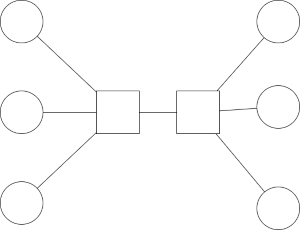
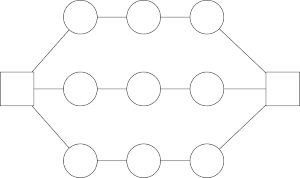
Adding security info content

diff --git a/securitypage.html b/securitypage.html
@@ -20,28 +20,73 @@
                 <img id="logo" src="ProtoNet_logo.png" alt="ProtoNet Logo">
                 <h1 id="title">Security Information</h1>
             </div>
-            <p>This is a placeholder until we determine the specific security aspects of our algorithm are determined. </p>
-            <p>Our current idea is that variations of a star network configuration will be most secure. We can show images of example configurations
-            to display their differences and provide explanations. </p>
-            <br><br><br><br>
+            <hr>
+            <blockquote>
+                <p>In the field of cyber technology, there are many branches of security. ProtoNet focuses on network design and the security aspects surrounding this area. </p>
+                <p>
+                    How a network is designed plays a large role in its overall security posture. A poorly designed network will result in a rapid spread of malware,
+                    which will jeopardize any affected machines and potentially the entire network.
+                </p>
+                <p>
+                    In an effort to ensure that ProtoNet is used effectively, we have outlined below how ProtoNet determines the most secure network layout and how
+                    this differs from an efficient one.
+                </p>
+            </blockquote>
+            <hr>
+            <br><br>
 
+            <p>
+                In ProtoNet, a network with <i>efficiency</i> selected will prioritize data rate transfer across the network. This typically results in a network
+                where nodes have many connections between them, while still being readable.
+            </p>
+            <p>
+                Within the scope of ProtoNet, a <i>secure</i> network is defined as a network that has a layout that will reduce the impact of malware attempting to spread
+                across it. There are many different ways to configure a network to do this, but they will all attempt to adhere to the following guidelines:
+            </p>
+        </div>
+        <ul type="disc">
+            <li><b>Minimize the number of connections between nodes.</b> This reduces the number of nodes that malware could quickly infect. </li>
+            <li>
+                <b>Avoid connecting individual nodes to multiple servers.</b> In the event of an infection, this would help prevent spreading malware to these servers.
+                This would keep the data on these devices safe, as well as prevent the spread of malware to all other nodes directly connected to those servers.
+            </li>
+        </ul>
+        <br>
+        <p>
+            The overall aim is to create distance between individual nodes and centralized nodes. Following these guidelines often results in generating network
+            configurations that are variations of the star or mesh topologies. This will be dependent upon the number of servers the network has. Below are some example network
+            designs that ProtoNet may generate.
+        </p>
+        <br><br><br><br>
+        <div>
             <center>
-            <img src="Secure2Servers.png" alt="Secure 2-Server Configuration" align="middle">
-            <br><br>
-            <p>
-                This is an example of a secure configuration.
-            </p>
-            <br><br><br><br>
-            <img src="SecureExtendedStar.png" alt="Secure Extended Star Configuration" align="middle">
-            <br><br>
-            <p>
-                This is a second example of a secure configuration. 
-            </p>
+                <img src="SecureExtendedStar.png" alt="Secure 2-Server Configuration">
+                <br><br>
+                <p>
+                    This is an example of a secure configuration with one server. It is a variation of a star topology where each node connected to the server has additional
+                    connections to additional nodes. This minimizes the number of nodes that are directly connected to the server and provides distance between many of the
+                    network's nodes and the central server.
+                </p>
+                <p>
+                    If a randomly selected node is infected with malware or ransomeware, this configuration would help prevent the
+                    infection from quickly propagating across the rest of the network. This delay gives the network professional an opportunity to detect and address the
+                    infection, minimizing any potential damage.
+                </p>
+                <br><br><br><br>
+                <img src="Secure2Servers.png" alt="Secure Extended Star Configuration">
+                <br><br>
+                <p>
+                    This configuration is similar to the previous one, except there is an additional server included. However, each centralized node needs special consideration
+                    when designing a secure network layout. This is because any malware that reaches a centralized node will be able to very quickly spread across the entire
+                    network. For this reason, the servers are not directly connected to each other, so that if one is compromised, additional servers are not
+                    immediately compromised as well.
+                </p>
+                <p>This layout still has a low average node-to-server distance, while utilizing the additional resources that the second server provides. </p>
+
+
+                <br><br><br><br>
+
             </center>
-
-            <br><br><br><br>
-
-            
         </div>
     </div>
 </body>
